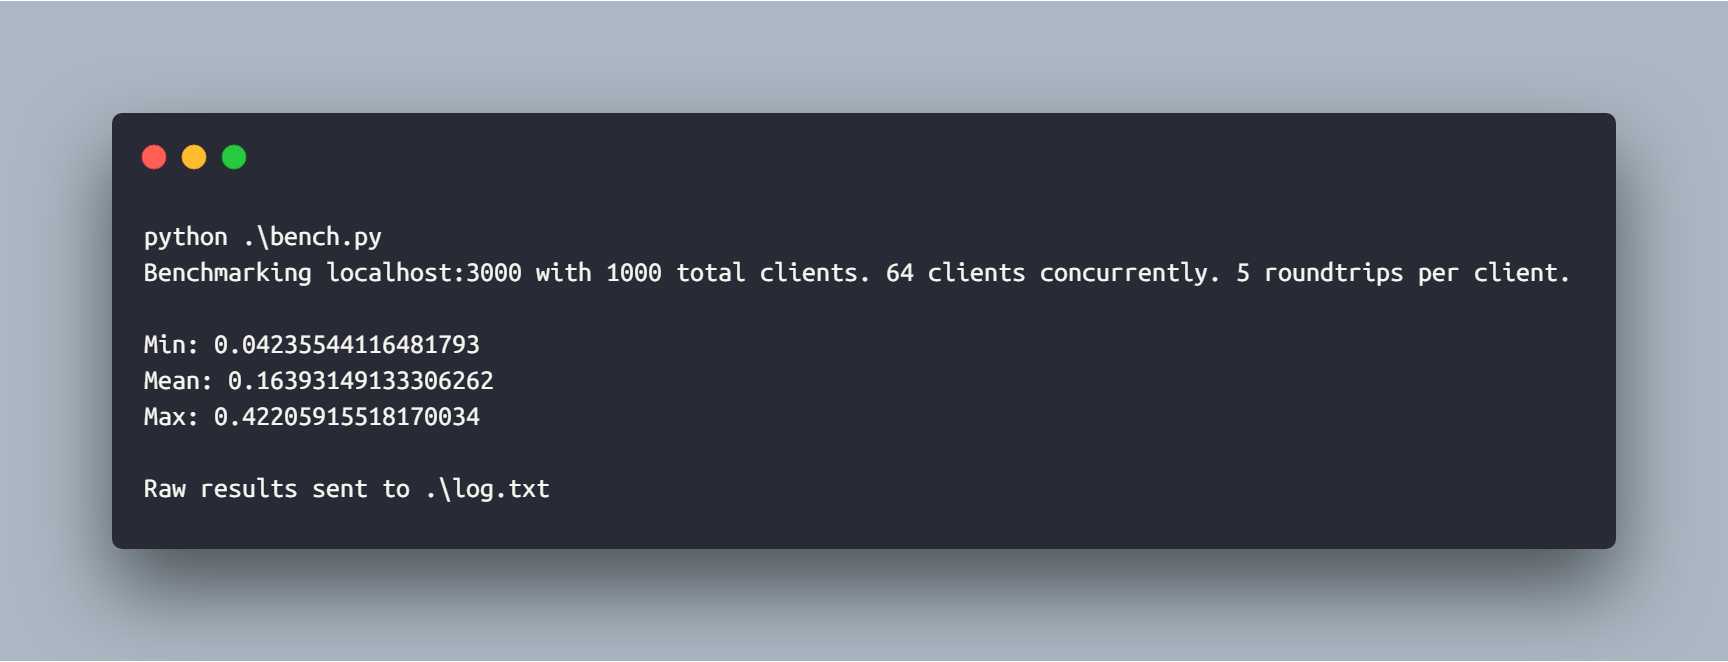
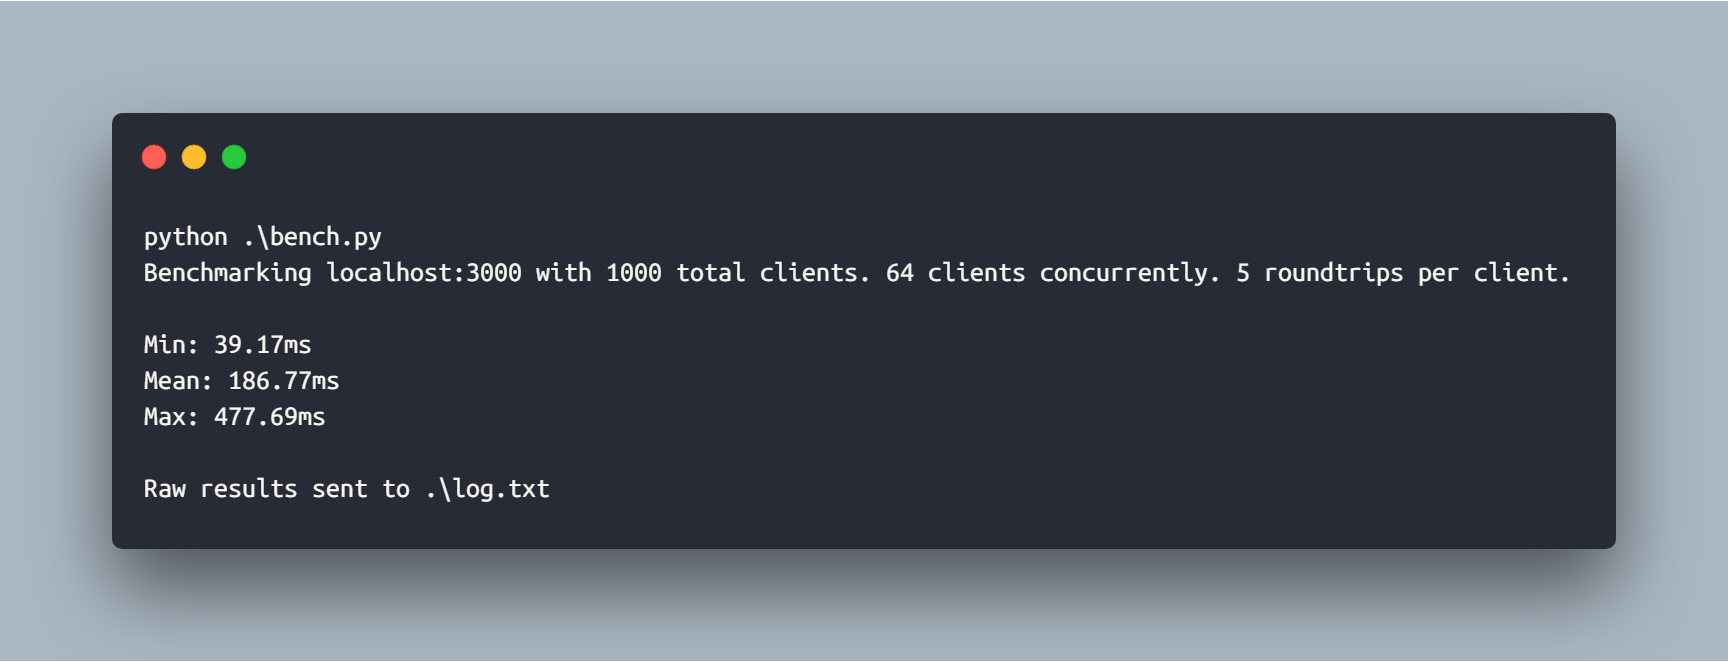
add unit of measurement (ms) and new header to reflect this

Changed region(s): [[0.125, 0.4834, 0.2812, 0.6647]]

diff --git a/bench.py b/bench.py
@@ -83,9 +83,12 @@ def stats(timings):
         A List of Lists containing message timings.
     '''
     timings_flat = [t for client_timings in timings for t in client_timings]
-    print(f'Min: {min(timings_flat)}')
-    print(f'Mean: {sum(timings_flat)/len(timings_flat)}')
-    print(f'Max: {max(timings_flat)}')
+    min_timing = min(timings_flat) * 1000
+    mean_timing = sum(timings_flat) / len(timings_flat) * 1000
+    max_timing = max(timings_flat) * 1000
+    print(f'Min: {min_timing:.2f}ms')
+    print(f'Mean: {mean_timing:.2f}ms')
+    print(f'Max: {max_timing:.2f}ms')
 
 
 stats(log_memory)
